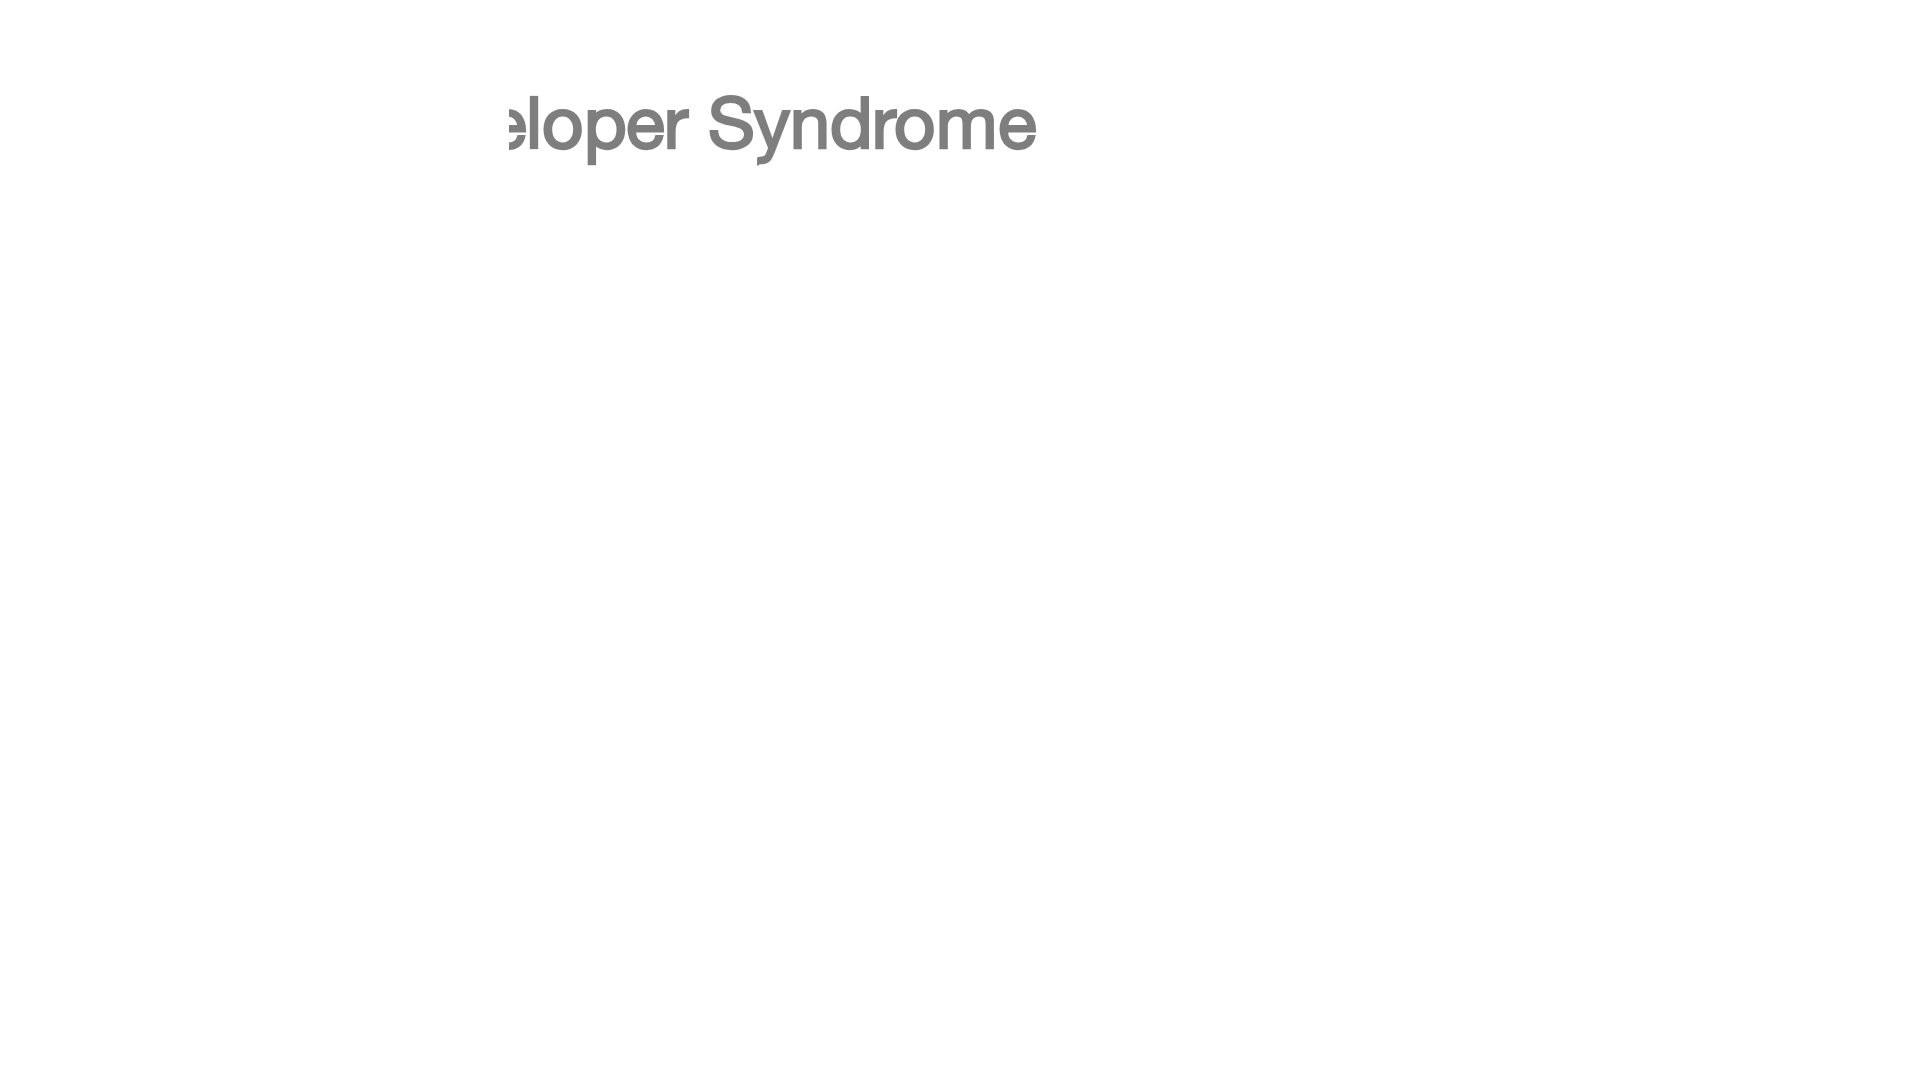
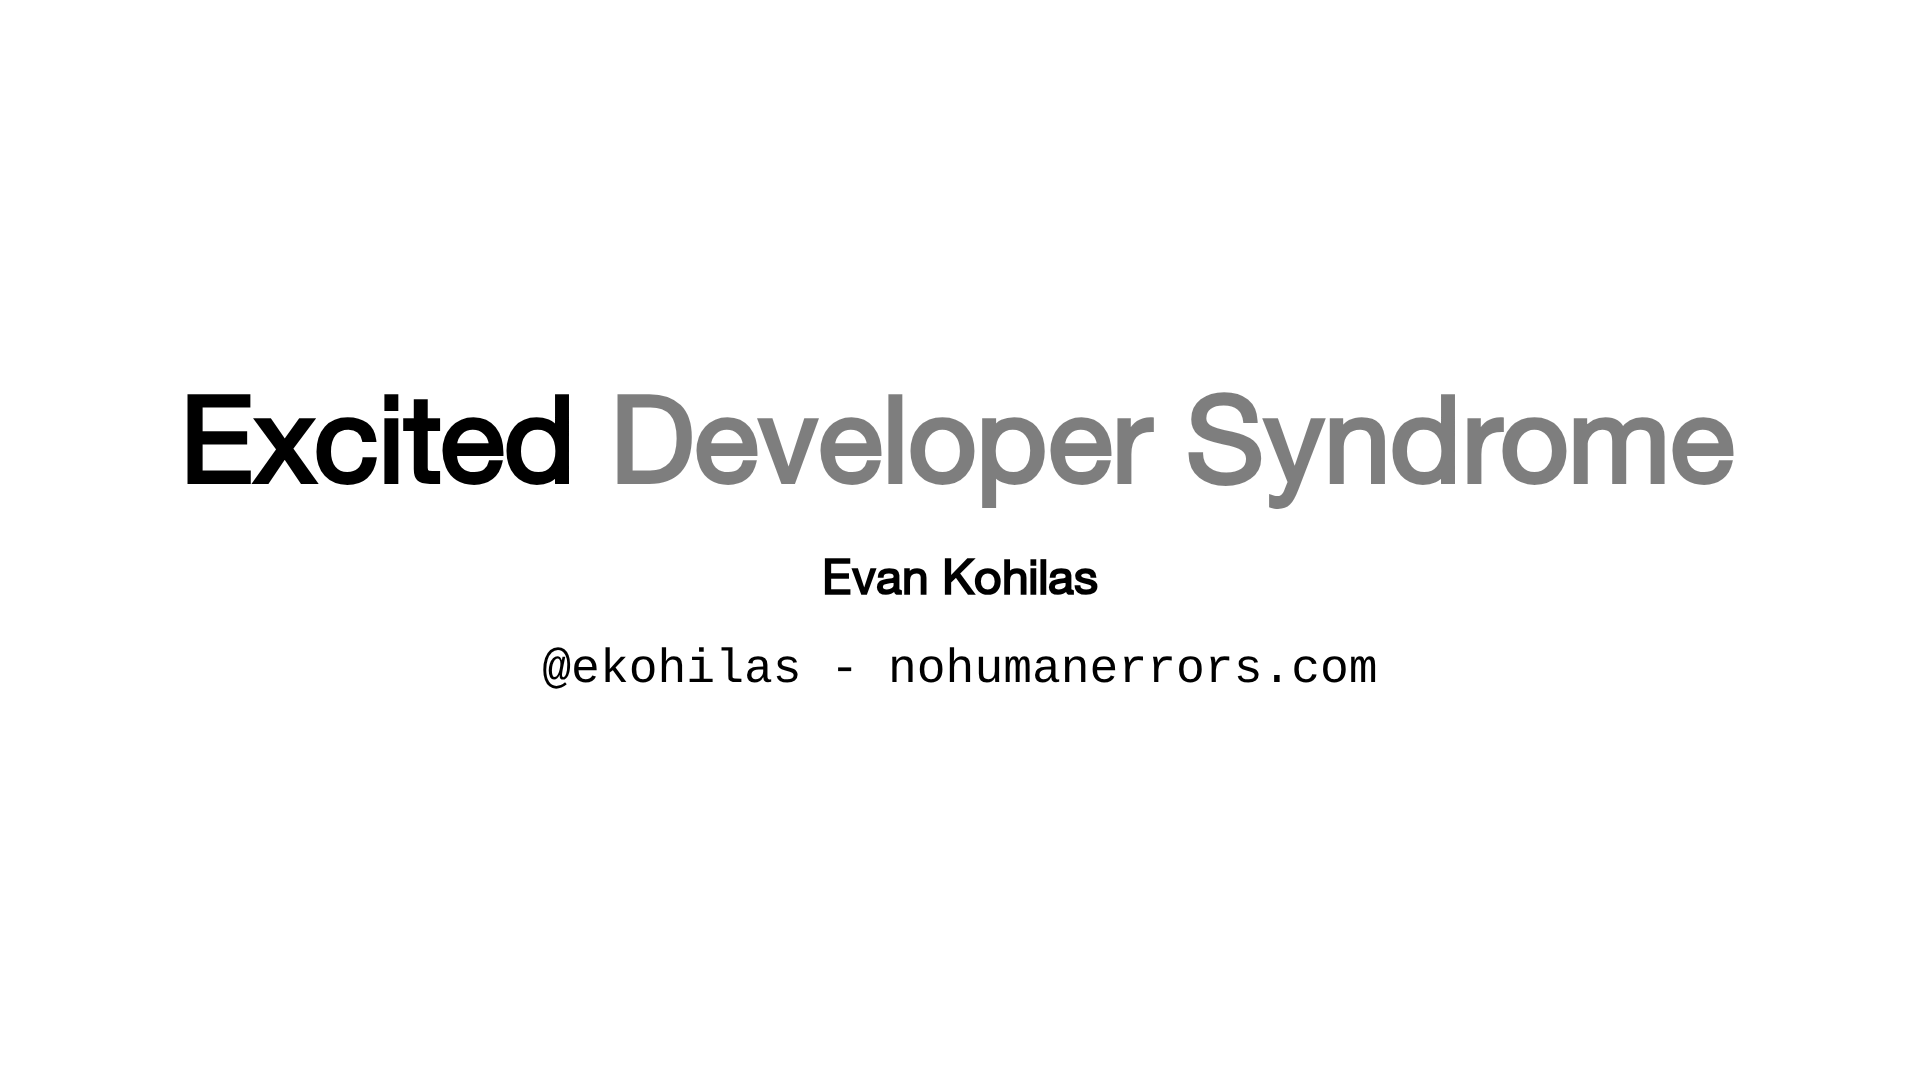
update intro visuals

diff --git a/slides.md b/slides.md
@@ -1,11 +1,9 @@
 ---
 theme: apple-basic
 #background: https://cover.sli.dev
-layout: intro
+layout: statement 
 title: Excited Developer Syndrome
 author: Evan Kohilas
-# apply UnoCSS classes to the current slide
-class: text-center
 # https://sli.dev/features/drawing
 drawings:
   persist: false
@@ -18,9 +16,21 @@ mdc: true
 
 # Excited Developer Syndrome
 
-Evan Kohilas
+## Evan Kohilas
 
-@ekohilas - `nohumanerrors.com`
+#### @ekohilas - nohumanerrors.com
+
+<style>
+h1 {
+  @apply mb-10;
+}
+h2 {
+  @apply text-2xl; 
+}
+h4 {
+  @apply font-mono mt text-2xl;
+}
+</style>
 
 <!--
 TODO: ...
@@ -29,16 +39,52 @@ Hello Everyone!
 -->
 
 ---
+layout: statement
+---
 
 # Excited Developer Syndrome
+
+## Evan Kohilas
+
+#### @ekohilas - nohumanerrors.com
+
+<style>
+h1 {
+  @apply mb-10;
+}
+h2 {
+  @apply text-2xl; 
+}
+h4 {
+  @apply font-mono mt text-2xl;
+}
+</style>
 
 <!--
 Are you...
 -->
 
 ---
+layout: statement
+---
 
 # Excited [Developer Syndrome]{style="opacity:50%"}
+
+## Evan Kohilas
+
+#### @ekohilas - nohumanerrors.com
+
+<style>
+h1 {
+  @apply mb-10;
+}
+h2 {
+  @apply text-2xl; 
+}
+h4 {
+  @apply font-mono mt text-2xl;
+}
+</style>
 
 <!--
 excited...
@@ -57,6 +103,7 @@ Okay great then we're off to a good start!
 ---
 duration: 5min
 title: Introduction
+layout: statement
 ---
 
 # Excited Developer Syndrome
@@ -65,8 +112,14 @@ title: Introduction
 So today I want to talk about a phenomenon I'm coining "Excited Developer Syndrome"
 -->
 ---
+layout: statement
+---
 
-# Def: ...
+# Excited Developer Syndrome
+
+***noun*** 
+
+_Definition:_ ...
 
 <!--
 And instead of giving you a boring definition
